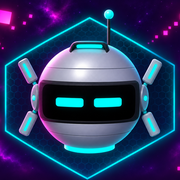
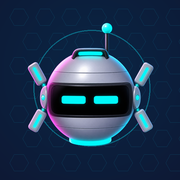
Neues Grafikpaket, weniger Magenta, aktuelle Bilder, vier Sprachen
Claude-Session: https://claude.ai/code/session_01XLuvdXayHazfWvZsJdh7GP

diff --git a/index.html b/index.html
@@ -4,12 +4,12 @@
 <meta charset="utf-8">
 <meta name="viewport" content="width=device-width, initial-scale=1">
 <title>NEOWARD – Tower Defense × Ego-Shooter für Meta Quest</title>
-<meta name="description" content="NEOWARD – Tower Defense und Ego-Shooter für Meta Quest 3 und 3S. Baue Türme, nimm das Gewehr in die Hand und verteidige den Kern.">
+<meta name="description" content="NEOWARD – Tower Defense und Ego-Shooter für Meta Quest 3 und 3S. Baue Türme, nimm das Gewehr in die Hand und verteidige die Zuflucht.">
 <meta property="og:type" content="website">
 <meta property="og:title" content="NEOWARD – Tower Defense × Ego-Shooter">
 <meta property="og:description" content="Für Meta Quest 3 · 3S. Bald im Meta Horizon Store.">
 <meta property="og:image" content="https://neoward.github.io/img/og.jpg">
-<meta name="theme-color" content="#0a0820">
+<meta name="theme-color" content="#0a0f1e">
 <link rel="icon" href="img/gizmo_icon.png">
 <link rel="apple-touch-icon" href="img/apple-touch-icon.png">
 <link rel="stylesheet" href="style.css">
@@ -18,22 +18,22 @@
 </head>
 <body class="home">
 <header class="top">
-  <a class="brand" href="#top"><img src="img/logo.png" alt="NEOWARD" width="1400" height="139"></a>
+  <a class="brand" href="#top"><img src="img/logo.png" alt="NEOWARD" width="1400" height="207"></a>
   <nav><a href="#spiel">Spiel</a><a href="#welten">Welten</a><a href="#bilder">Bilder</a><a href="#kontakt">Kontakt</a></nav>
 </header>
 
 <section class="hero" id="top">
   <picture class="hero-art" data-parallax="0.3">
     <source media="(max-width: 700px)" srcset="img/banner_hoch.jpg">
-    <img src="img/banner.jpg" alt="NEOWARD: Türme am Weg, magentafarbene Drohnen und Gizmo" width="2400" height="720">
+    <img src="img/banner.jpg" alt="NEOWARD: Türme am Weg, das Gegner-Tor und Gizmo" width="2400" height="720">
   </picture>
   <div class="hero-in">
     <p class="kicker">Tower Defense × Ego-Shooter</p>
-    <p class="tag">Verteidige den Kern. Baue Türme, nimm das Gewehr in die Hand und halte vier Welten aus Licht und
+    <p class="tag">Verteidige die Zuflucht. Baue Türme, nimm das Gewehr in die Hand und halte vier Welten aus Licht und
     Stahl gegen Schwärme korrumpierter Drohnen.</p>
-    <p class="tag en">Defend the core. Build towers, take up your rifle and hold four worlds of light and steel against
+    <p class="tag en">Defend the haven. Build towers, take up your rifle and hold four worlds of light and steel against
     swarms of corrupted drones.</p>
-    <div class="badges"><span class="badge">Meta Quest 3 · 3S</span><span class="badge">Deutsch · English</span><span class="badge hot">Bald im Meta Horizon Store · Coming soon</span></div>
+    <div class="badges"><span class="badge">Meta Quest 3 · 3S</span><span class="badge">English · Deutsch · Français · Español</span><span class="badge hot">Bald im Meta Horizon Store · Coming soon</span></div>
   </div>
 </section>
 
@@ -47,21 +47,21 @@
     <div class="feats">
       <figure class="feat"><img src="img/s1.jpg" alt="Blick aus den Augen mit Gewehr" loading="lazy" width="1600" height="900"><figcaption><b>Gewehr in der Hand</b>Zielen, markieren, kritisch treffen. <i>Rifle in hand.</i></figcaption></figure>
       <figure class="feat"><img src="img/s2.jpg" alt="Übersicht: Türme an den Bahnen gegen eine Welle" loading="lazy" width="1600" height="900"><figcaption><b>Sechs Türme</b>Gatling, Kryo, Plasma, Tesla, Railgun, Raketen. <i>Six towers.</i></figcaption></figure>
-      <figure class="feat"><img src="img/s3.jpg" alt="Boss mit Wabenschild am Wandlauf" loading="lazy" width="1600" height="900"><figcaption><b>Bosse</b>Jede Welt endet mit einem Wächter. <i>A boss guards every world.</i></figcaption></figure>
+      <figure class="feat"><img src="img/s3.jpg" alt="Sichelwächter Kael, der Boss der zweiten Welt" loading="lazy" width="1600" height="900"><figcaption><b>Bosse</b>Jede Welt endet mit einem Wächter. <i>A boss guards every world.</i></figcaption></figure>
     </div>
   </section>
 
-  <section class="block" id="welten" data-gizmo="Vier Welten, zwanzig Missionen. Je tiefer wir gehen, desto mehr Magenta … · Four worlds, twenty missions.">
+  <section class="block" id="welten" data-gizmo="Vier Welten, zwanzig Missionen. Je tiefer wir gehen, desto dunkler wird es … · Four worlds, twenty missions.">
     <h2><span>02</span>Vier Welten</h2>
-    <p class="lead">Zwanzig Missionen auf schwebenden Brücken über dem All. Je tiefer du vordringst, desto stärker frisst
-    sich die Korruption in Magenta durch den Himmel.</p>
-    <p class="lead en">Twenty missions on floating bridges above the void. The deeper you go, the more the magenta
-    corruption eats into the sky.</p>
+    <p class="lead">Zwanzig Missionen auf schwebenden Brücken über dem All. Je tiefer du vordringst, desto dunkler werden
+    die Welten – und desto dichter drängt die Korruption heran.</p>
+    <p class="lead en">Twenty missions on floating bridges above the void. The deeper you go, the darker the worlds become
+    – and the closer the corruption presses in.</p>
     <div class="worlds">
-      <div class="world" style="--w:#8eeaff;--k:.08"><b>I</b><span>Welt I · World I</span></div>
-      <div class="world" style="--w:#3fd0f5;--k:.22"><b>II</b><span>Welt II · World II</span></div>
-      <div class="world" style="--w:#1aa6d6;--k:.4"><b>III</b><span>Welt III · World III</span></div>
-      <div class="world" style="--w:#0f7fb0;--k:.65"><b>IV</b><span>Welt IV · World IV</span></div>
+      <div class="world" style="--w:#8eeaff;--k:.34"><b>I</b><span>Lichtfeld · Light Field</span></div>
+      <div class="world" style="--w:#3fd0f5;--k:.24"><b>II</b><span>Sturmzone · Storm Zone</span></div>
+      <div class="world" style="--w:#1aa6d6;--k:.14"><b>III</b><span>Zerfall · Decay</span></div>
+      <div class="world" style="--w:#22d8ff;--k:.05"><b>IV</b><span>Korrumpierter Kern · Corrupted Core</span></div>
     </div>
   </section>
 
@@ -70,14 +70,14 @@
     <div class="gallery">
       <a href="img/s4.jpg" target="_blank" rel="noopener"><img src="img/s4.jpg" alt="Hand am Gewehr, Blick vom Standplatz in eine dichte Welle" loading="lazy" width="1600" height="900"></a>
       <a href="img/s5.jpg" target="_blank" rel="noopener"><img src="img/s5.jpg" alt="Gegner vor dem Wabentor der Zuflucht" loading="lazy" width="1600" height="900"></a>
-      <a href="img/s6.jpg" target="_blank" rel="noopener"><img src="img/s6.jpg" alt="Spawn-Tor aus der Nähe" loading="lazy" width="1600" height="900"></a>
+      <a href="img/s6.jpg" target="_blank" rel="noopener"><img src="img/s6.jpg" alt="Wege und Türme in Welt I, hinten Gegner-Tor und Zuflucht" loading="lazy" width="1600" height="900"></a>
       <a href="img/s7.jpg" target="_blank" rel="noopener"><img src="img/s7.jpg" alt="Levelauswahl: das Relaisnetz" loading="lazy" width="1600" height="900"></a>
     </div>
   </section>
 
   <section class="block" id="kontakt" data-gizmo="Bald im Meta Horizon Store. Ich warte schon! · Coming soon!">
     <div class="cta">
-      <img src="img/logo.png" alt="NEOWARD" width="1400" height="139">
+      <img src="img/logo.png" alt="NEOWARD" width="1400" height="207">
       <p>Bald im Meta Horizon Store für Meta Quest 3 und 3S.<br><span class="muted">Coming soon to the Meta Horizon Store.</span></p>
       <p class="muted small">Kontakt / Contact: <span class="em" data-u="htar.nosreg" data-d="moc.em">gerson.rath [at] me [punkt] com</span></p>
     </div>

diff --git a/style.css b/style.css
@@ -1,8 +1,9 @@
-/* NEOWARD – Webseite. Farben wie im Spiel: Navy, Holo-Cyan (Spieler), Magenta (Gegner) */
+/* NEOWARD – Webseite. Farben wie im Spiel (seit 4.99.548): Navy und kühles Grau, Holo-Cyan für alles Eigene;
+   Magenta nur sparsam für die Gegner (22.11.: weniger Magenta, wie in den aktuellen Screenshots) */
 :root {
-  --bg: #0a0820; --bg2: #120d33; --panel: rgba(18, 28, 58, 0.72);
+  --bg: #0a0f1e; --bg2: #111a33; --panel: rgba(18, 28, 58, 0.72);
   --text: #e8ecf5; --muted: #8f9ab3; --line: rgba(34, 216, 255, 0.18);
-  --cyan: #22d8ff; --magenta: #ff289f;
+  --cyan: #22d8ff; --magenta: #ff289f; --steel: #9fb2c8;
 }
 * { box-sizing: border-box; }
 html { background: var(--bg); }
@@ -11,7 +12,7 @@ body {
   font: 16px/1.65 system-ui, -apple-system, "Segoe UI", Roboto, sans-serif;
   background:
     radial-gradient(ellipse 80% 50% at 50% -10%, rgba(34, 216, 255, 0.16), transparent 70%),
-    radial-gradient(ellipse 60% 40% at 100% 0%, rgba(255, 40, 159, 0.10), transparent 70%),
+    radial-gradient(ellipse 60% 40% at 100% 0%, rgba(159, 178, 200, 0.08), transparent 70%),
     linear-gradient(180deg, var(--bg2), var(--bg) 60%);
   background-attachment: fixed;
 }
@@ -35,13 +36,13 @@ section.lang { border-top: 1px solid var(--line); margin-top: 56px; padding-top:
 .hero .title { font-size: clamp(40px, 11vw, 76px); font-weight: 800; letter-spacing: 0.22em; margin: 0 0 12px;
   padding-left: 0.22em; color: #fff; text-shadow: 0 0 18px rgba(34, 216, 255, 0.7), 0 0 48px rgba(34, 216, 255, 0.35); }
 .hero .line { width: 120px; height: 2px; margin: 0 auto 24px;
-  background: linear-gradient(90deg, transparent, var(--cyan), var(--magenta), transparent); }
+  background: linear-gradient(90deg, transparent, var(--cyan), transparent); }
 .hero .tag { font-size: 18px; max-width: 560px; margin: 0 auto 12px; }
 .hero .tag.en { font-size: 15px; color: var(--muted); }
 .badges { display: flex; justify-content: center; flex-wrap: wrap; gap: 10px; margin-top: 28px; }
 .badge { border: 1px solid var(--line); border-radius: 999px; padding: 6px 14px; font-size: 13px; color: var(--muted);
   background: var(--panel); }
-.badge.hot { border-color: rgba(255, 40, 159, 0.45); color: #ffd0e8; }
+.badge.hot { border-color: rgba(34, 216, 255, 0.55); color: #d6f7ff; box-shadow: 0 0 14px rgba(34, 216, 255, .18); }
 .card { background: var(--panel); border: 1px solid var(--line); border-radius: 10px; padding: 18px 22px;
   margin-top: 32px; text-align: center; }
 
@@ -82,7 +83,7 @@ body.home { overflow-x: hidden; }
 .block { padding: 72px 0 8px; opacity: 0; transform: translateY(24px); transition: opacity .7s, transform .7s; }
 .block.seen { opacity: 1; transform: none; }
 .block h2 { font-size: clamp(26px, 4.5vw, 38px); color: #fff; margin: 0 0 16px; font-weight: 800; letter-spacing: .02em; }
-.block h2 span { display: inline-block; font-size: 14px; color: var(--magenta); letter-spacing: .2em; margin-right: 14px;
+.block h2 span { display: inline-block; font-size: 14px; color: var(--cyan); letter-spacing: .2em; margin-right: 14px;
   vertical-align: middle; font-weight: 700; }
 .lead { font-size: 18px; max-width: 720px; }
 .lead.en { font-size: 15px; color: var(--muted); }
@@ -98,7 +99,7 @@ body.home { overflow-x: hidden; }
 
 .worlds { display: grid; grid-template-columns: repeat(4, 1fr); gap: 14px; margin-top: 28px; }
 .world { position: relative; border-radius: 12px; padding: 26px 12px 18px; text-align: center; overflow: hidden;
-  background: linear-gradient(180deg, rgba(255, 40, 159, var(--k)), rgba(7, 11, 26, .2) 70%), var(--panel);
+  background: linear-gradient(180deg, rgba(159, 178, 200, var(--k)), rgba(7, 11, 26, .2) 70%), var(--panel);
   border: 1px solid color-mix(in srgb, var(--w) 45%, transparent); }
 .world b { display: block; font-size: 40px; line-height: 1; color: var(--w); text-shadow: 0 0 16px var(--w); margin-bottom: 10px; }
 .world span { font-size: 13px; color: var(--muted); }
@@ -108,7 +109,7 @@ body.home { overflow-x: hidden; }
 .gallery img { display: block; width: 100%; height: auto; aspect-ratio: 16 / 9; object-fit: cover; transition: transform .4s; }
 .gallery a:hover img { transform: scale(1.04); }
 
-.cta { text-align: center; padding: 40px 20px; border-radius: 14px; border: 1px solid rgba(255, 40, 159, .35);
+.cta { text-align: center; padding: 40px 20px; border-radius: 14px; border: 1px solid rgba(34, 216, 255, .35);
   background: radial-gradient(ellipse at 50% 0%, rgba(34, 216, 255, .14), transparent 70%), var(--panel); }
 .cta img { width: min(360px, 70vw); height: auto; filter: drop-shadow(0 0 14px rgba(34, 216, 255, .5)); }
 .cta p { font-size: 17px; margin: 14px 0 0; }
